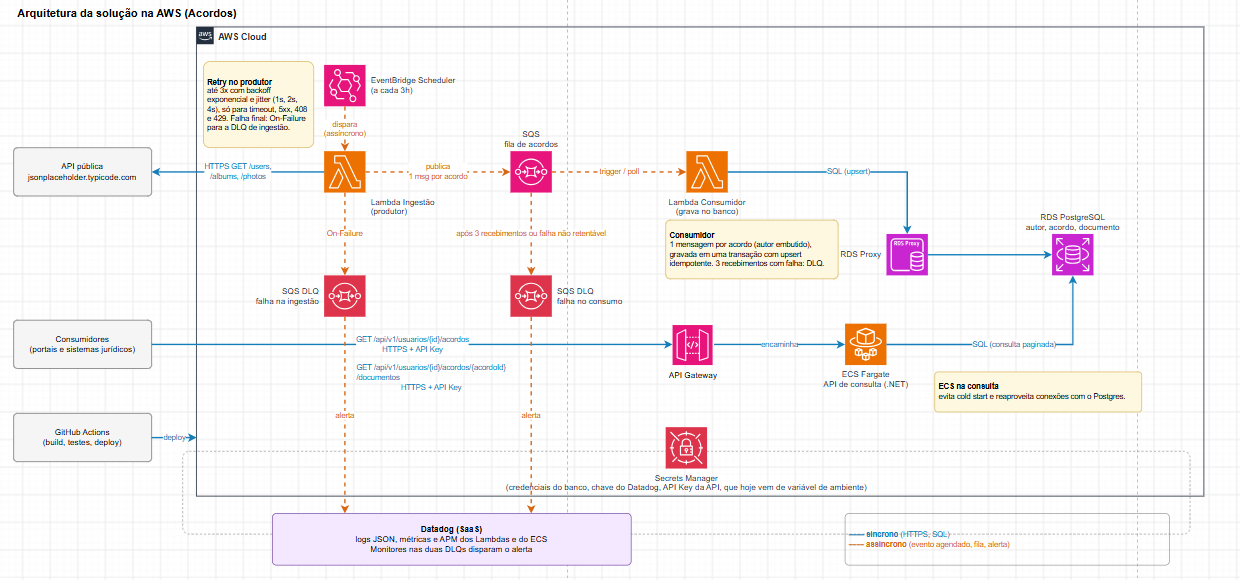
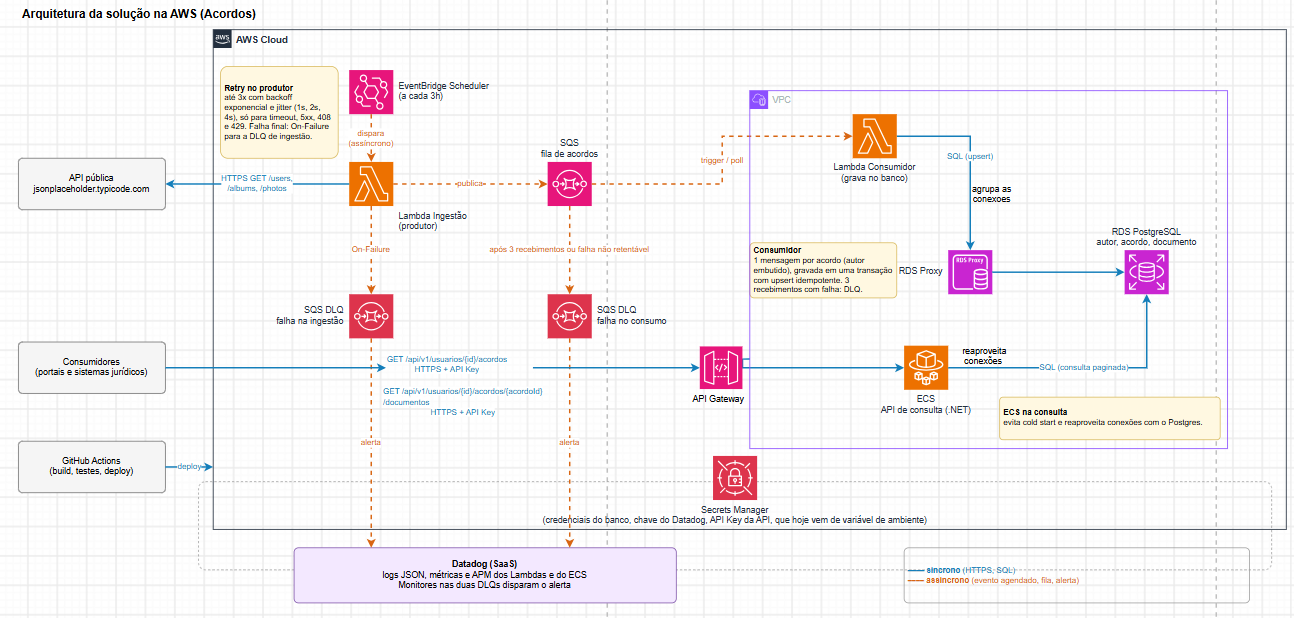
fix: ajuste doc

diff --git a/src/CaseAcordos.Consumidor/Infraestrutura/ConsumidorSqs.cs b/src/CaseAcordos.Consumidor/Infraestrutura/ConsumidorSqs.cs
@@ -109,7 +109,7 @@ public sealed class ConsumidorSqs : BackgroundService
         switch (resultado.Tipo)
         {
             case TipoResultado.Sucesso:
-                await ApagarAsync(urlFila, mensagem, ct);
+                await ApagarAsync(urlFila, mensagem, ct);    
                 break;
 
             case TipoResultado.FalhaNaoRetentavel:
@@ -154,6 +154,8 @@ public sealed class ConsumidorSqs : BackgroundService
         }
     }
 
+    // apaga a msg da fila de origem
+    // Esse fluxo é importante porque a mensagem só é apagada depois que o repositório confirma o COMMIT.
     private async Task ApagarAsync(string urlFila, Message mensagem, CancellationToken ct)
     {
         await _sqs.DeleteMessageAsync(

diff --git a/src/CaseAcordos.Api/Controllers/AcordosController.cs b/src/CaseAcordos.Api/Controllers/AcordosController.cs
@@ -44,6 +44,8 @@ namespace CaseAcordos.Api.Controllers
             return Ok(resposta);
         }
 
+
+
         /// <summary>Lista, de forma paginada, os documentos de um acordo do autor.</summary>
         /// <param name="id">Identificador do autor (inteiro positivo).</param>
         /// <param name="acordoId">Identificador do acordo (inteiro positivo); deve pertencer ao autor.</param>

diff --git a/src/CaseAcordos.Mensageria/Configuracao/OpcoesFilas.cs b/src/CaseAcordos.Mensageria/Configuracao/OpcoesFilas.cs
@@ -8,7 +8,7 @@ public sealed class OpcoesFilas
 {
     public const string Secao = "Filas";
 
-    /// <summary>Endpoint do LocalStack (ex.: http://localhost:4566). Vazio em produção.</summary>
+    /// <summary>Endpoint do LocalStack (ex.: http://localhost:4566).</summary>
     public string? UrlServicoSqs { get; set; }
 
     public string Regiao { get; set; } = "us-east-1";

diff --git a/src/CaseAcordos.Persistencia/Repositorios/RepositorioAcordosPostgres.cs b/src/CaseAcordos.Persistencia/Repositorios/RepositorioAcordosPostgres.cs
@@ -58,6 +58,9 @@ public sealed class RepositorioAcordosPostgres(NpgsqlDataSource fonteDados)
         RETURNING id;
         """;
 
+    // ON CONFLICT ( ) - Essas combinações determinam quando o PostgreSQL deve considerar que o registro já existe.
+    //DO UPDATE
+
     private const string SqlAcordo = """
         INSERT INTO acordo (
             autor_id,

diff --git a/README.md b/README.md
@@ -294,7 +294,7 @@ curl -H "X-Api-Key: <sua-chave>" "http://localhost:5289/api/v1/usuarios/1/acordo
 
 ## Roteiro de demonstração
 
-Roteiro para provocar cada cenário durante a apresentação.
+Roteiro para provocar cada cenário.
 
 ### 1. Fluxo feliz e idempotência
 
@@ -326,9 +326,74 @@ aws sqs receive-message --queue-url http://localstack:4566/000000000000/acordos-
 ```
 
 **b) API pública indisponível → retentativas → DLQ de ingestão**
+PowerShell:
+```powershell
+$env:JsonPlaceholder__UrlBase = "http://localhost:9/"
+dotnet run --project .\src\CaseAcordos.Ingestao\CaseAcordos.Ingestao.csproj
+```
+
+Ao finalizar o teste, remova a variável da sessão atual do PowerShell:
+
+```powershell
+Remove-Item Env:JsonPlaceholder__UrlBase
+```
+
+Bash:
 ```bash
 JsonPlaceholder__UrlBase=http://localhost:9/ dotnet run --project src/CaseAcordos.Ingestao
 ```
+
+`http://localhost:9/` não possui uma API escutando; por isso, a Ingestão falha ao
+consultar `/users`. A política de retentativa executa a tentativa inicial e até
+3 novas tentativas para falhas elegíveis, usando backoff exponencial com jitter.
+Depois de esgotar as tentativas, a falha é publicada na fila
+`acordos-dlq-ingestao` e a carga é encerrada com indicação de erro. No
+PowerShell, a sintaxe `$env:NomeDaVariavel = "valor"` é necessária; a atribuição
+vale somente para a sessão atual do terminal.
+
+## Consulta das mensagens nas DLQs (LocalStack)
+
+Com o LocalStack em execução, defina uma função auxiliar no PowerShell para executar o AWS CLI dentro da rede do Docker:
+
+```powershell
+function aws-local {
+    docker run --rm `
+        --network case-acordos_default `
+        -e AWS_ACCESS_KEY_ID=test `
+        -e AWS_SECRET_ACCESS_KEY=test `
+        -e AWS_DEFAULT_REGION=us-east-1 `
+        amazon/aws-cli `
+        --endpoint-url http://localstack:4566 @args
+}
+```
+
+Para verificar a quantidade de mensagens na DLQ de ingestão:
+
+```powershell
+aws-local sqs get-queue-attributes `
+    --queue-url http://localstack:4566/000000000000/acordos-dlq-ingestao `
+    --attribute-names ApproximateNumberOfMessages
+```
+
+Para verificar a quantidade de mensagens na DLQ de consumo:
+
+```powershell
+aws-local sqs get-queue-attributes `
+    --queue-url http://localstack:4566/000000000000/acordos-dlq-consumo `
+    --attribute-names ApproximateNumberOfMessages
+```
+
+Para visualizar as mensagens da DLQ de ingestão:
+
+```powershell
+aws-local sqs receive-message `
+    --queue-url http://localstack:4566/000000000000/acordos-dlq-ingestao `
+    --max-number-of-messages 10 `
+    --message-attribute-names All `
+    --visibility-timeout 0
+```
+
+Para consultar a DLQ de consumo, substitua `acordos-dlq-ingestao` por `acordos-dlq-consumo` na URL. O comando `receive-message` apenas lê as mensagens; ele não as remove da DLQ. O parâmetro `--visibility-timeout 0` mantém as mensagens imediatamente visíveis para novas consultas. Na DLQ de ingestão, o corpo contém a etapa, os identificadores, o erro e o `CorrelationId`; na DLQ de consumo, o corpo é a mensagem original e os atributos incluem o motivo da falha e o `MessageIdOriginal`.
 
 ### 3. Cenários da API de consulta
 
